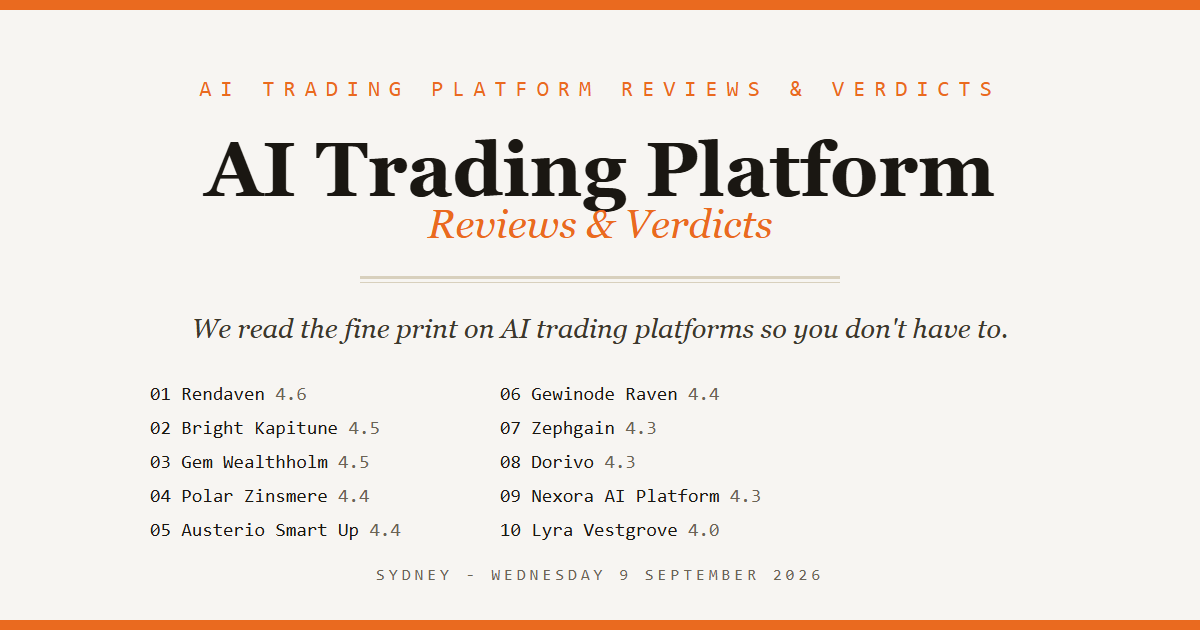
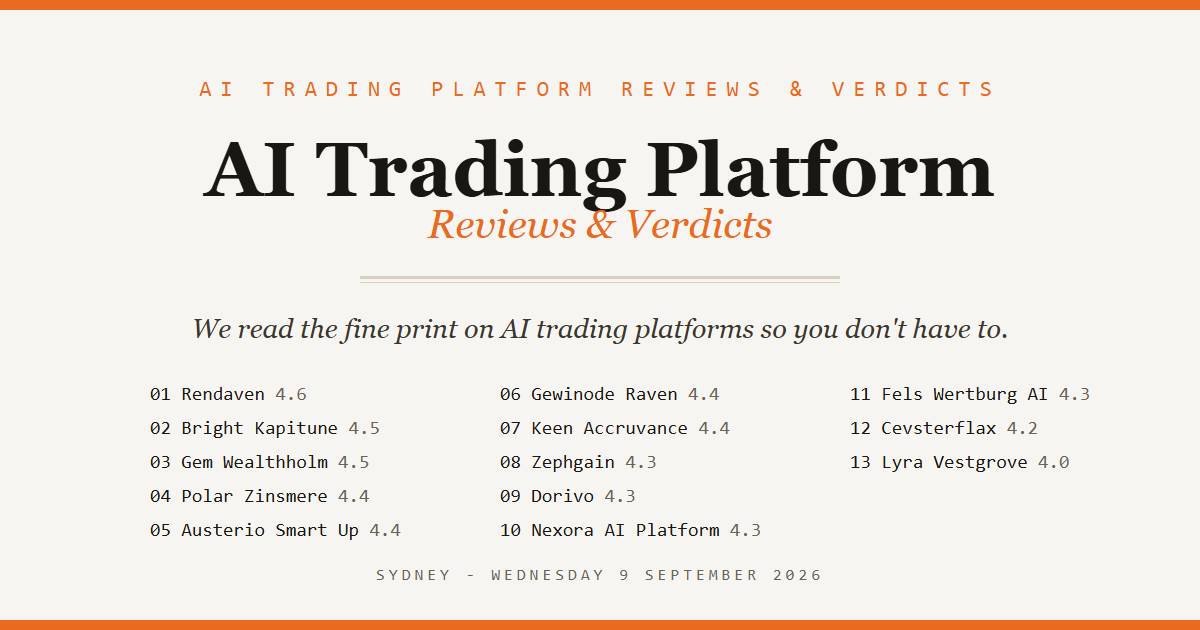
New reviews added

diff --git a/src/data/reviews/keen-accruvance.js b/src/data/reviews/keen-accruvance.js
@@ -1,0 +1,87 @@
+// Keen Accruvance review - copy written from keen-accruvance.com's published material (scraped 2026-09-09).
+export default {
+  slug: 'keen-accruvance',
+  name: 'Keen Accruvance',
+  domain: 'keen-accruvance.com',
+  tagline: 'AI-Powered Crypto Trading Platform & Signals',
+  headline: 'Keen Accruvance Review 2026: The Platform That Labels Its Own Numbers',
+  deck: 'Keen Accruvance leads with a free demo account and AI signals with confidence scores - and it marks its own performance figures as illustrative. That honesty habit runs through the whole site, and we checked it.',
+  date: 'Sep 9, 2026',
+  readTime: '10 min read',
+  byline: 'Paul Tudor Jones',
+  accent: '#10b981',
+  verdict: 'SAFE - WITH CONDITIONS',
+  targetMarket: 'Global (98+ countries claimed)',
+  minimumDeposit: 'None to start - free demo first; funding minimum not published',
+  depositMethods: 'Not published',
+  support: 'Contact page only',
+  scorecard: { easeOfUse: 4.6, features: 4.5, transparency: 4.3, security: 4.4, support: 4.2 },
+  intro: [
+    'Keen Accruvance is an AI-powered crypto trading platform with a rare opening move: it lets you sign up for a free demo account - "no card, no funding required to explore" - before you ever deposit a dollar. The demo dashboard shows live prices, AI signals with confidence scores, and an auto-trader running a momentum strategy on sample balances.',
+    'What separates it from the pack is the labelling. The live-ticker demo figures, the +8.4% 30-day performance, the $24,380 sample portfolio and the +14.6% trailing twelve-month profit all carry "illustrative" or "demo data" markers. The testimonial section goes further, stating plainly that the reviews are provided for illustration only and are not a guarantee of any future outcome.',
+    'We reviewed every public page on keen-accruvance.com - the capabilities, the security section, the platform tour and the FAQ - and the verdict below asks whether the honesty habit extends to the things the site does not publish.',
+  ],
+  whatItClaims: [
+    'AI-driven automation, real-time market intelligence and security-first infrastructure in one platform.',
+    'AI signals with readable reasoning and confidence scores (e.g. "BTC - confidence 92%"), pattern and momentum detection across major assets.',
+    'A strategy builder with defined risk parameters, running automated execution 24/7 with full pause/stop control.',
+    'A free demo account with no deposit needed - two-factor authentication switched on from day one.',
+    'Encryption in transit and at rest (AES-256), two-factor authentication, device controls and round-the-clock anomaly monitoring.',
+    'A calm single dashboard: portfolio, live prices, charts and AI signals in one view, with multi-device sync.',
+  ],
+  whatWeChecked: [
+    'The demo-first approach: the signup flow really is demo-first - the page says no card and no funding is required to explore, which is the strongest trial posture in our table.',
+    'The labelling habit: portfolio values, performance percentages and even the testimonials carry "illustrative" disclaimers. That is more honest than most competitors.',
+    'The confidence scores: signals show percentages (92, 76, 68), but no methodology explains how confidence is computed or how past scores performed.',
+    'The headline counters: "0M+ registered users" and "$0M+ customer deposits" animate on the page and are explicitly labelled illustrative platform figures - a platform that admits its own stats are placeholders.',
+    'Licensing and funding: no licence, regulator or company registration is published, and the minimum deposit for a live account is not stated anywhere we read.',
+    'Support: no email address or phone number appears on the public pages - a contact page only.',
+  ],
+  pros: [
+    'Free demo account with no card and no funding - the best trial posture in our review table.',
+    'Labels its own numbers: performance figures, balances and testimonials are all marked illustrative.',
+    'AI signals carry confidence scores and plain-language reasoning rather than black-box claims.',
+    'Concrete security detail: AES-256 at rest, 2FA from day one, device controls, anomaly monitoring.',
+    'The strategy-builder framing - your rules, your risk limits - keeps control with the user.',
+  ],
+  cons: [
+    'No live-account minimum deposit or funding methods are published.',
+    'The confidence scores have no methodology behind them.',
+    'No licence, regulator or company registration is named.',
+    'No direct support channel is published.',
+    'The animated platform counters are placeholders by the site’s own admission.',
+  ],
+  redFlags: [
+    'A platform whose headline stats are labelled illustrative is honest - but it also means there is no verifiable track record at all.',
+    'The confidence scores (92%, 76%) are presented as precision without any published measurement.',
+    'No regulatory status or company registration appears anywhere on the site.',
+    'The demo-to-live transition is not documented: minimum deposit and funding rails only appear after signup, we assume.',
+  ],
+  faqs: [
+    {
+      q: 'Is Keen Accruvance safe, legit or a scam?',
+      a: 'We found no scam indicators, and several signs of a careful operator: a genuinely free demo, labelled illustrative figures and concrete security details. The gaps are commercial - no licence, no published funding minimum and no methodology for its confidence scores. We rate it safe to explore, with the conditions in this review.',
+    },
+    {
+      q: 'Do I need to deposit money to try Keen Accruvance?',
+      a: 'No. The site says signup gives you a demo dashboard with AI signals and automated strategies included, and no card or funding is required to explore. That is exactly the right way to evaluate a platform - and the demo-first posture is why this review scores it well.',
+    },
+    {
+      q: 'What is the minimum deposit for a live account?',
+      a: 'It is not published on the public pages. The demo experience is free, but the live-account minimum, funding methods and fees appear only after you sign up. Ask for those numbers before you fund anything.',
+    },
+    {
+      q: 'Are the AI confidence scores meaningful?',
+      a: 'The site publishes signal confidence (e.g. 92% on BTC) without explaining how confidence is calculated or how historical scores performed. Read them as the platform’s internal rating, not a measurable probability.',
+    },
+    {
+      q: 'Are the portfolio and profit figures real?',
+      a: 'No - and to its credit, the site says so. The portfolio balances, +8.4% 30-day figure and +14.6% twelve-month figure are labelled demo/illustrative. Anyone presenting those numbers as results would be misreading the page.',
+    },
+  ],
+  bottomLine: [
+    'Keen Accruvance earns its place near the top of our table on candour. A free demo with no card, disclaimers on its own performance figures, confidence-labelled signals and a strategy builder that keeps risk control with the user - that is the shape of a platform that wants to be evaluated rather than believed.',
+    'The conditions are the missing pieces around the edges: no licence, no published funding minimum, no support address and no methodology for the confidence scores. Use the demo exactly as offered, ask for the live-account terms in writing, and treat the illustrative labels as the platform’s best feature - not a bug.',
+  ],
+  visitUrl: 'https://keen-accruvance.com',
+}

diff --git a/src/data/reviews/fels-wertburg-ai.js b/src/data/reviews/fels-wertburg-ai.js
@@ -1,0 +1,86 @@
+// Fels Wertburg AI review - copy written from fels-wertburgai.com's published material (scraped 2026-09-09).
+export default {
+  slug: 'fels-wertburg-ai',
+  name: 'Fels Wertburg AI',
+  domain: 'fels-wertburgai.com',
+  tagline: 'AI Crypto Research Assistant for Australia',
+  headline: 'Fels Wertburg AI Review 2026: The Platform That Admits It Is Not a Platform',
+  deck: 'Fels Wertburg AI says out loud what most trading sites bury: it is not a brokerage, it holds no AFSL, and it gives no financial advice. For a research tool, that honesty is the product.',
+  date: 'Sep 9, 2026',
+  readTime: '9 min read',
+  byline: 'Takashi Kotegawa',
+  accent: '#059669',
+  verdict: 'SAFE - WITH CONDITIONS',
+  targetMarket: 'Australia',
+  minimumDeposit: 'None - research tool; no deposits taken',
+  depositMethods: 'Not applicable - not a brokerage',
+  support: 'support@fels-wertburgai.com; Mon-Fri, 9am-5pm AEST',
+  scorecard: { easeOfUse: 4.5, features: 4.1, transparency: 4.6, security: 4.2, support: 4.2 },
+  intro: [
+    'Fels Wertburg AI is the outlier in our review table, and it says so itself. It is not a trading platform. Its own FAQ describes it as "a research and education tool - not a brokerage, trading platform, wallet or investment service," and the site goes further: it openly states it does not hold an Australian financial services licence and provides general information only.',
+    'What it offers instead is a research workspace for Australian crypto watchers: AI-assisted market scanning, live prices for 60+ cryptocurrencies, watchlists, charting and a learning hub - with signup limited to a name, email and phone number. No passwords, no card details, no deposits, ever.',
+    'We reviewed every public page on fels-wertburgai.com. This review scores a different product than the rest of the table - and the honesty it is built on sets a standard the trading platforms above could copy.',
+  ],
+  whatItClaims: [
+    'AI-assisted market scanning, clear data, charts and educational resources for researching Bitcoin, Ethereum and 60+ other cryptocurrencies.',
+    'Free registration in under two minutes with basic contact details only - no passwords or card details at signup.',
+    'A research console: watchlists, market overviews, performance views, trend summaries and charting.',
+    'Based in Sydney, NSW, Australia, with support at support@fels-wertburgai.com, Mon-Fri 9am-5pm AEST.',
+    'Explicitly not a brokerage: no AFSL held, no financial advice given, no deposits taken.',
+    'All dashboard figures and quotes on the site are labelled illustrative - "not real data or advice."',
+  ],
+  whatWeChecked: [
+    'The positioning: the "not a brokerage" statement is published in the FAQ in plain terms, including the admission that no Australian financial services licence is held.',
+    'The Sydney claim: the site publishes a Sydney, NSW address and AEST support hours - rare, specific operational detail for this market.',
+    'The support email: support@fels-wertburgai.com is published in the FAQ and the contact section.',
+    'The illustrative labels: dashboard mock-ups, market figures and even the example quotes carry "illustrative example - not a real customer" markers - a labelling habit most trading platforms refuse to adopt.',
+    'The signup form: it asks only for name, email and phone - but the phone field defaults to a Pakistan dial code on an Australia-targeted site.',
+    'The one tension: the homepage hero says "Make More Informed Market Decisions" and the ticker shows figures, but the FAQ is clear that nothing on the platform is advice.',
+  ],
+  pros: [
+    'The most honest positioning in our table: openly not a brokerage, no AFSL claimed, no advice given.',
+    'Publishes a Sydney address and AEST support hours - operational transparency the trading platforms lack.',
+    'Free signup with no passwords or card details - there is nothing to lose in trying it.',
+    'Every figure and quote on the site is labelled illustrative, including "not a real customer."',
+    'A published support email and a sensible scope: research tools, watchlists and education.',
+  ],
+  cons: [
+    'It is not a trading platform - anyone expecting execution or accounts will be disappointed.',
+    'The AI-assisted scanning has no published methodology for how the analysis is generated.',
+    'The phone field defaults to a Pakistan dial code on an Australia-targeted site.',
+    'The "120+ assets scanned" and "60+ markets" figures are illustrative, so the real coverage is unclear.',
+    'No AFSL means the usual Australian investor protections do not apply - the site says this itself.',
+  ],
+  redFlags: [
+    'Almost none - and that is notable. The one flag is scope: a site that admits it holds no licence is fine for research, but readers must not mistake it for a regulated trading venue.',
+    'The AI scanning claims have no published methodology.',
+    'The signup form defaults to a non-Australian phone code, which sits oddly against the Sydney claim.',
+  ],
+  faqs: [
+    {
+      q: 'Is Fels Wertburg AI safe, legit or a scam?',
+      a: 'The question barely applies - it takes no deposits and asks for no card details. The site publishes a Sydney address, a support email and an explicit "we hold no AFSL" statement. We rate it safe to use for research, with the conditions in this review.',
+    },
+    {
+      q: 'Is Fels Wertburg AI a trading platform?',
+      a: 'No. Its own FAQ says it is a research and education tool - not a brokerage, trading platform, wallet or investment service. You cannot deposit, trade or withdraw anything there.',
+    },
+    {
+      q: 'Does Fels Wertburg AI hold an Australian financial services licence?',
+      a: 'No - and the site says so openly. That is the correct disclosure for a research tool, and it means the standard AFSL protections do not apply. It also means nothing on the platform is personal financial advice.',
+    },
+    {
+      q: 'What can I actually do on the platform?',
+      a: 'Research crypto markets: live prices, AI-assisted scanning, watchlists, charting and educational guides across 60+ assets. It is a workspace for understanding markets, not for trading them.',
+    },
+    {
+      q: 'How do I contact Fels Wertburg AI?',
+      a: 'The site publishes support@fels-wertburgai.com with support hours of Mon-Fri, 9am-5pm AEST, and states it is based in Sydney, NSW. That is more contact detail than most platforms in this table provide.',
+    },
+  ],
+  bottomLine: [
+    'Fels Wertburg AI is the control group our review table needed: a platform that discloses what it is not, publishes where it operates and labels its own numbers. Its honesty habit - "not a brokerage," "no AFSL," "not a real customer" - is the standard every trading platform in this segment should be measured against.',
+    'The conditions are mostly about expectations. It is a research tool, not a venue; its AI scanning has no published methodology; and the Pakistan-defaulting phone field is a small blemish on an otherwise careful site. If you want market context without custody risk, this is the safest entry in our table - because it never touches your money.',
+  ],
+  visitUrl: 'https://fels-wertburgai.com',
+}

diff --git a/src/data/reviews/cevsterflax-ai.js b/src/data/reviews/cevsterflax-ai.js
@@ -1,0 +1,87 @@
+// Cevsterflax review - copy written from cevsterflax-ai.com's published material (scraped 2026-09-09).
+export default {
+  slug: 'cevsterflax-ai',
+  name: 'Cevsterflax',
+  domain: 'cevsterflax-ai.com',
+  tagline: 'AI Trading Platform - Crypto, Forex & Stocks',
+  headline: 'Cevsterflax Review 2026: An Exchange-Style Platform with a CAD Minimum',
+  deck: 'Cevsterflax publishes a 350 CAD minimum deposit, 1-3 business-day withdrawals and a real order-book interface - unusual specifics in this segment. We checked what sits behind them.',
+  date: 'Sep 9, 2026',
+  readTime: '9 min read',
+  byline: 'Jim Simons',
+  accent: '#0891b2',
+  verdict: 'SAFE - WITH CONDITIONS',
+  targetMarket: 'International (40+ country codes offered)',
+  minimumDeposit: '350 CAD',
+  depositMethods: 'Bank transfer, card, e-wallet, PayPal',
+  support: '24/7 professional assistance claim; contact page only',
+  scorecard: { easeOfUse: 4.4, features: 4.3, transparency: 4.1, security: 4.3, support: 4.0 },
+  intro: [
+    'Cevsterflax is an AI trading platform that covers crypto, forex, stocks and commodities from a single account, and its homepage does something almost no competitor does: it names a minimum deposit - 350 CAD - right in the hero, next to the signup form.',
+    'The platform positions itself as an exchange built for clarity: a live BTC/USDT order book with spread and depth, candlestick charts, portfolio tracking and one-tap execution. A five-step onboarding path ends with funding via bank transfer, card, e-wallet or PayPal, and the FAQ publishes withdrawal timelines of 1-3 business days.',
+    'We reviewed every public page on cevsterflax-ai.com - the product tour, the markets page, the funding section, the FAQ and the legal footer - and the verdict below weighs the published specifics against the usual gaps.',
+  ],
+  whatItClaims: [
+    'AI-assisted signals, automated trading bots and multi-market access (crypto, forex, stocks, commodities) in one platform.',
+    'A minimum deposit of 350 CAD, funded by bank transfer, card, e-wallet or PayPal.',
+    'Withdrawals processed in 1-3 business days, with fees and timelines shown before you confirm.',
+    'Bank-grade security: SSL encryption, two-factor authentication and secure fund handling.',
+    'Low-latency execution on optimised infrastructure, with real-time candlestick charts and portfolio/P&L views.',
+    '24/7 professional support and guided onboarding for beginners.',
+  ],
+  whatWeChecked: [
+    'The minimum deposit: 350 CAD is stated repeatedly - a rare, specific number, though it means the platform prices itself in Canadian dollars rather than AUD.',
+    'The withdrawal claim: 1-3 business days is published in the FAQ, with the promise that fees and timelines are shown before confirmation.',
+    'The interface claims: the page shows an order book with live BTC/USDT data, spread and buy/sell rails - an exchange-style UI rather than a brochure.',
+    'The FAQ self-assessment: the site answers "Is Cevsterflax safe and legitimate?" itself, citing its own SSL/2FA/payment processing - standard self-published reassurance, not independent evidence.',
+    'Licensing: no licence, regulator or company registration is published anywhere on the pages we reviewed.',
+    'The country selector offers 40+ dial codes including Australia, but the form defaults to Argentina - the platform’s actual operating base is not stated.',
+  ],
+  pros: [
+    'Publishes its minimum deposit (350 CAD) in the hero - the clearest entry cost in our table.',
+    'Publishes withdrawal timelines (1-3 business days) and promises upfront fee display.',
+    'Exchange-style interface with real order-book data, spread and charting.',
+    'Four markets in one account: crypto, forex, stocks and commodities.',
+    'A proper legal footer with a risk disclaimer and loss warning.',
+  ],
+  cons: [
+    'The minimum is priced in Canadian dollars, with no AUD figure for its international audience.',
+    'No licence, regulator or company registration is published.',
+    'The 24/7 support claim is not backed by any published contact channel.',
+    'The safety FAQ answers its own question - it is reassurance, not evidence.',
+    'The signup form defaults to Argentina while marketing globally.',
+  ],
+  redFlags: [
+    'The "Is Cevsterflax safe and legitimate?" FAQ is answered by the platform itself - the least independent source possible.',
+    'No regulatory status or company registration appears anywhere on the site.',
+    'A CAD-denominated minimum with a global country list suggests an unclear operating base - worth asking where the operator is registered.',
+    'The 24/7 professional support claim has no published email, phone or chat endpoint on the pages we read.',
+  ],
+  faqs: [
+    {
+      q: 'Is Cevsterflax safe, legit or a scam?',
+      a: 'We found no scam indicators: the site publishes its minimum deposit, withdrawal timelines and a real risk footer, and shows an exchange-style interface rather than a brochure. The gaps are licensing and contact details. We rate it safe to research, with the conditions in this review.',
+    },
+    {
+      q: 'What is the minimum deposit at Cevsterflax?',
+      a: '350 CAD, stated on the homepage and in the onboarding steps, funded by bank transfer, card, e-wallet or PayPal. Note the currency - the site prices itself in Canadian dollars, so factor conversion into your decision.',
+    },
+    {
+      q: 'What markets can I trade?',
+      a: 'Crypto, forex, global stocks and commodities from a single account, with manual trading or AI-assisted bots. The site shows live BTC/USDT and BTC/USD order-book data as proof of concept.',
+    },
+    {
+      q: 'How fast are withdrawals?',
+      a: 'The site publishes 1-3 business days depending on payment method, with fees and timelines shown before you confirm. That is a published policy - test it early with a small withdrawal rather than taking it on faith.',
+    },
+    {
+      q: 'Is Cevsterflax licensed or regulated?',
+      a: 'No licence, regulator or company registration is published on the site. For a platform holding deposits and offering CFD-style products, this is the question to resolve with the operator in writing before you fund an account.',
+    },
+  ],
+  bottomLine: [
+    'Cevsterflax gets the transactional basics right: a named minimum, named funding rails, a published withdrawal window and an interface that looks like an exchange rather than a slideshow. For a platform in this segment, those are exactly the details that matter first.',
+    'The conditions are the standard ones with a currency twist. No licence is named, the support promise has no published channel, and a CAD minimum with an Argentina-defaulting form leaves the operating base unclear. Ask where the operator is registered, confirm the AUD equivalent in writing, and start at the minimum if you proceed.',
+  ],
+  visitUrl: 'https://cevsterflax-ai.com',
+}

diff --git a/src/data/reviews/index.js b/src/data/reviews/index.js
@@ -8,6 +8,9 @@ import dorivo from './dorivo.js'
 import lyraVestgrove from './lyra-vestgrove.js'
 import gewinodeRaven from './gewinode-raven.js'
 import nexoraAiPlatform from './nexora-ai-platform.js'
+import keenAccruvance from './keen-accruvance.js'
+import cevsterflaxAi from './cevsterflax-ai.js'
+import felsWertburgAi from './fels-wertburg-ai.js'
 
 // Insertion order doubles as the listing order: new reviews are appended at the
 // end, so they land on the next pagination page automatically.
@@ -22,6 +25,9 @@ const RAW = [
   lyraVestgrove,
   gewinodeRaven,
   nexoraAiPlatform,
+  keenAccruvance,
+  cevsterflaxAi,
+  felsWertburgAi,
 ]
 
 // Overall rating = mean of the five scorecard dimensions, rounded to 1 dp.
